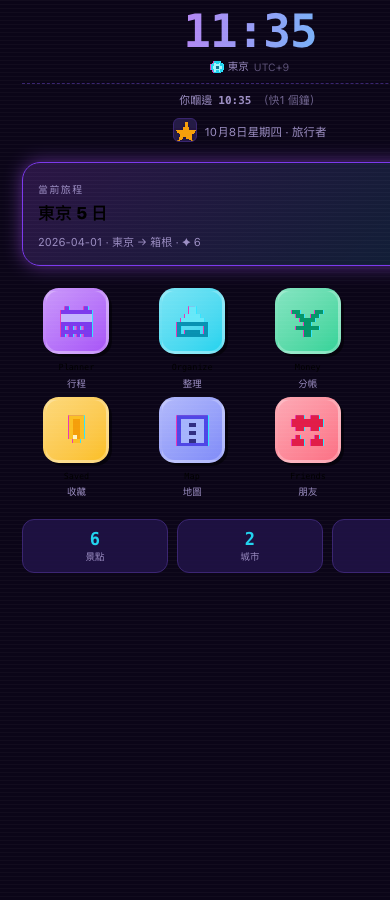
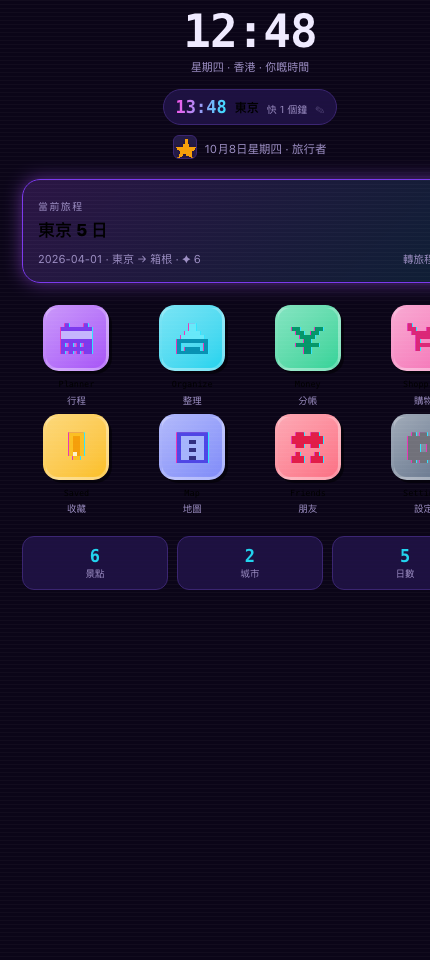
📝 README 更新（repo 變 public）+ 私隱審計
⚠⚠ Repo 由 private 變 **public** → 做咗完整私隱審計：

① 秘密檔案：✅ 全部擋住
   server/wander.db · server/.env · node_modules
   uploads/ · geocode_cache.json
   → git 追蹤嘅敏感檔案：**0**

② 🚨 捉到一個**真 email** 喺測試入面
   tests/web/admin_entry.test.mjs:
   → 改成

③ ✅ LAN IP（192.168.1.100）全部係之前設嘅**假 placeholder**

④ 全域嚴格檢查（真實 email / macOS 用戶名 / 真 IP）：
   **完全乾淨**

README 更新：
  · 新截圖（世界時鐘：大字手機時間 + 細字自選城市）
  · 加新功能：多貨幣、世界時鐘、托盤城市分組、Dashboard
  · 加 9 個「測試捉到嘅真 bug」案例
  · 更新測試數（1,893）同行數（37,000）
  · ⚠ 刪走臨時 cloudflared link（唔應該 commit）

.gitignore：加 docs/shots/*.html（截圖中間產物）

測試: 後端 1103 · 前端 780

diff --git a/README.md b/README.md
@@ -5,20 +5,19 @@
 **旅行計劃 app —— 由貼一條 link 到排好每日行程**
 
 貼一個 Google Maps / Instagram 連結，自動抽出地址同座標，
-按地理位置分區、排每日行程、分帳、購物清單、雙時區時鐘。
+按地理位置分區、排每日行程、分帳、購物清單、多時區時鐘。
 
 <br>
 
-[**🌍 即時試用**](https://era-apparently-submitted-language.trycloudflare.com) ·
 [功能](#-功能) · [技術](#-技術亮點) · [架構](#-架構) · [快速開始](#-快速開始)
 
 <br>
 
 <table>
 <tr>
-<td><img src="docs/shots/login.png" width="215" alt="登入"><br><sub>登入</sub></td>
-<td><img src="docs/shots/app-home.png" width="215" alt="主畫面"><br><sub>主畫面 + 雙時區時鐘</sub></td>
-<td><img src="docs/shots/app-saved.png" width="215" alt="收藏"><br><sub>收藏 + 地名 facet</sub></td>
+<td><img src="docs/shots/login.png" width="200" alt="登入"><br><sub>登入</sub></td>
+<td><img src="docs/shots/app-home.png" width="200" alt="主畫面"><br><sub>主畫面 + 世界時鐘</sub></td>
+<td><img src="docs/shots/app-saved.png" width="200" alt="收藏"><br><sub>收藏 + 地名 facet</sub></td>
 </tr>
 </table>
 
@@ -31,7 +30,7 @@
 ## ⚡ 一句話
 
 > 一個**冇用任何 AI** 嘅旅行計劃工具：所有解析、分區、時區判斷
-> 都係**可預測嘅規則引擎**，1,600+ 個測試守住。
+> 都係**可預測嘅規則引擎**，1,900+ 個測試守住。
 
 ---
 
@@ -39,21 +38,25 @@
 
 | App | 做咩 |
 |---|---|
-| 🗓 **Planner** | 月曆總覽 + 拖放編排（Pointer Events，手機都拖得）|
+| 🗓 **Planner** | 月曆總覽 + **拖放編排**（Pointer Events，手機都拖得）|
 | 📥 **Organize** | 貼 link → 自動解析地名、地址、座標、圖片 |
 | 💸 **Money** | 分帳（整數 cents 運算，冇浮點誤差）|
-| 🛒 **Shopping** | 購物清單 + 相框 |
+| 🛒 **Shopping** | 購物清單 + 相框 + **多貨幣** |
 | 🔖 **Saved** | 收藏瀏覽 + 搜尋 + **由地址自動抽出地名 facet** |
 | 🗺 **Map** | Leaflet + OSM，顯示每日路線 |
 | 👥 **Friends** | 朋友 + QR code（雙向確認，唔可以加自己）|
 | ⚙ **Settings** | 個人檔案、頭像、主題、教學重播 |
+| 🛠 **Dashboard** | 後台：幾多數據 + 邊個用戶用緊 |
 
 ### 特別做得好嘅位
 
-- **雙時區時鐘** —— 本地 + 目的地同時顯示，覆蓋 77 個單時區國家
-  + 9 個多時區國家（按東界經度分帶）
+- **世界時鐘** —— 上面大字係**你手機嘅時間**，下面細字係
+  **你自己揀嘅城市**（打中文／英文都得，本機 134k 城市庫即時查）
+- **多貨幣** —— 每項購物可以自己揀貨幣（JPY／KRW／EUR…），
+  總額自動按**即時匯率**換算，換唔到會明確講（唔會靜靜畀錯錢）
 - **地名 facet** —— 你 save 咗「博多」，因為地址有「福岡市」，
   就自動出一個 `[福岡市 2]` 嘅 chip 畀你 tick 篩選
+- **托盤按城市分組** —— 排 Day 3（福岡）嗰陣，福岡嘅景點排最前
 - **37 個 16×16 像素頭像** —— 程序化生成，唔係用圖檔
 - **離線優先 PWA** —— cache-first shell、network-first 導航、
   LRU 圖磚快取（上限 800 塊）
@@ -66,29 +69,40 @@
 
 ```
 engine/wander/
+├── links.py        Google Maps / IG / 小紅書 link 解析
 ├── caption.py      標題解析（中文地址、店名、地區詞）
 ├── localgeo.py     134,655 個地名 + 146 個手動整理區
 ├── tz.py           時區判斷（國家 → 經度分帶 → Etc/GMT±N）
+├── currency.py     匯率（兩個免費 API + 6 個鐘快取）
 ├── zones.py        Haversine 貪婪分群（確定性，唔隨機）
-├── qr.py           自己寫嘅 QR 編碼器（版本 1–20，EC level L）
+├── qr.py           自己寫嘅 QR 編碼器（版本 1–20）
 └── lookup.py       Photon → Nominatim → Overpass 三層 fallback
 ```
 
 **為咩唔用 LLM**：旅行計劃要**可預測**。同樣嘅輸入要出同樣嘅結果，
 而且要**解釋得到**為咩分喺嗰區。規則引擎做得到，LLM 唔得。
 
-### ② 自己寫 QR 編碼器
+### ② 貼一條 Google Maps link 就抽到嘢
+
+```
+/maps/place/店名,@lat,lng,17z/data=!3d..!4d..   ← 最完整
+/maps/place/35.6586,139.7454/@..                 ← 純座標
+/maps/search/?api=1&query=店名
+/maps/dir/?api=1&destination=成田機場
+/maps/@lat,lng,17z                               ← 只有視窗中心
+maps.app.goo.gl/xxxx                             ← 短連結（跟 redirect）
+```
+
+⚠ 店名連住地址會**拆開**（`一蘭拉麵 本店, 1 Chome-1-1 …`）；
+⚠ 純座標唔會當做店名；⚠ `place_id:` 會丟棄；
+⚠ 有座標但冇地名 → **本機 134k 城市庫反查**國家／城市。
+
+### ③ 自己寫 QR 編碼器
 
 冇用 `qrcode` 套件 —— 純 Python 實作：
 Reed-Solomon 糾錯、遮罩模式選擇、版本自動升級。
 
-```python
-# engine/wander/qr.py
-def encode(text: str, ec_level: str = "L") -> list[list[int]]:
-    """版本 1–20，自動揀最細嘅版本。"""
-```
-
-### ③ 程序化像素藝術
+### ④ 程序化像素藝術
 
 ```python
 # engine/make_avatars.py
@@ -100,14 +114,6 @@ AVATAR = P(['#outline', '#main', '#light'], [
 ])
 ```
 
-### ④ 時間軸同步（整合同測試）
-
-Planner 曾有兩個獨立系統（月曆模式 + 時間格模式）各自寫入
-`day_index` / `start_time` → **拖咗時間但顯示唔變**。
-
-修法：**刪走一個模式**，全部用同一個 `place()` 寫入
-`{day_index, parsed:{start_time, duration}}`。
-
 ### ⑤ 免費服務，零成本
 
 | 用途 | 服務 |
@@ -115,6 +121,7 @@ Planner 曾有兩個獨立系統（月曆模式 + 時間格模式）各自寫入
 | 地理編碼 | Photon (Komoot) · Nominatim (OSM) |
 | 圖磚 | OpenStreetMap |
 | 地名資料 | GeoNames（本機 DB，134,655 條）|
+| 匯率 | jsdelivr (fawazahmed0) · open.er-api.com |
 | 連結解析 | DuckDuckGo HTML · Open Graph |
 
 ---
@@ -122,11 +129,11 @@ Planner 曾有兩個獨立系統（月曆模式 + 時間格模式）各自寫入
 ## 🧪 測試
 
 ```
-後端   pytest        882 通過
-前端   node:test     751 通過（12 個套件）
-引擎   selftest       10 通過
-─────────────────────────────────
-                     1,643
+後端   pytest        1,103 通過
+前端   node:test       780 通過（14 個套件）
+引擎   selftest         10 通過
+──────────────────────────────────
+                      ~1,893
 ```
 
 **測試捉到嘅真 bug**（唔止係「有測試」）：
@@ -134,14 +141,20 @@ Planner 曾有兩個獨立系統（月曆模式 + 時間格模式）各自寫入
 | Bug | 測試點捉到 |
 |---|---|
 | `PixelIcon is not defined` → Planner 白畫面 | 靜態「用咗但冇 import」檢查 |
-| `useMemo` 冇 import | 同上（`vite build` **捉唔到**）|
+| `WorldClocks is not defined` → 主畫面爆 | SSR 真 render（`vite build` **捉唔到**）|
+| `useMemo` 冇 import | 同上 |
 | 密碼欄每次打一個字就失焦 | 「組件唔可以喺 render 內定義」檢查 |
-| `eye` 圖示用咗唔存在嘅調色板索引 | 像素圖示索引檢查 |
 | `--fg` CSS 變數唔存在（應為 `--text`）| CSS 變數完整性檢查 |
 | `$VAR` 後面跟全形括號 → bash `unbound variable` | shell script 掃描 |
+| `history.back()` 做 tab 嘅「返去」→ 跳出 app | 導航審計 |
+| 後台入口 `isAdmin` 永遠 false（只喺 mount 檢查）| 真 render 比對 admin／非 admin |
+| `nowIn()` 回 `hh`/`mm` 但用咗 `hours`/`minutes` | 時間顯示測試 |
 
 > ⚠ 而且**測試會 match 到自己嘅註解** —— 所以所有原始碼檢查
 > 都會先剝走註解。呢個陷阱中過好多次。
+>
+> ⚠ 但要小心：**唔可以一刀切剝三引號字串** ——
+> 呢個 codebase 嘅 SQL 就係寫喺三引號入面。
 
 ---
 
@@ -150,7 +163,7 @@ Planner 曾有兩個獨立系統（月曆模式 + 時間格模式）各自寫入
 ```
                         ┌──────────────┐
    瀏覽器 (PWA)  ──────▶ │  FastAPI     │
-   React 19 + Vite      │  port 8787   │
+   React 18 + Vite      │  port 8787   │
                         └──────┬───────┘
                                │
               ┌────────────────┼────────────────┐
@@ -165,12 +178,12 @@ Planner 曾有兩個獨立系統（月曆模式 + 時間格模式）各自寫入
 冇 CORS、冇 nginx、冇 docker-compose。
 
 ```
-engine/     10,140 行   解析引擎
-web/src/    10,273 行   React 前端
-tests/       9,729 行   測試
-server/app/  3,550 行   API
+engine/     11,000 行   解析引擎
+web/src/    11,000 行   React 前端
+tests/      11,000 行   測試
+server/app/  4,000 行   API
 ────────────────────────────
-            34,519 行
+            37,000 行
 ```
 
 ### 安全
@@ -178,8 +191,8 @@ server/app/  3,550 行   API
 - 密碼：PBKDF2-HMAC-SHA256，**600,000 次迭代**、per-user salt、
   `hmac.compare_digest` 比較
 - Session token：`secrets.token_urlsafe`
-- 刪帳號：**轉移**擁有權（唔會連累朋友嘅旅程）——
-  呢個係實測踩過嘅坑，見 [DEVLOG](DEVLOG.md)
+- 刪帳號：**轉移**擁有權（唔會連累朋友嘅旅程）
+- GZip 壓縮 + 上傳大小限制 + SPA fallback 唔會蓋過 API
 
 ---
 
@@ -214,6 +227,14 @@ cd server && python -m app
 ⚠ HTTPS 之下 service worker、相機、剪貼板全部用得
 （`http://192.168.x.x` 做唔到）。
 
+### 部署
+
+| 方法 | 指令 |
+|---|---|
+| Fly.io（永久網址）| `./deploy.sh` |
+| 對外開放（臨時）| `./host.sh` |
+| 推上 GitHub | `./push-to-github.sh` |
+
 ---
 
 ## 📁 文件
@@ -221,6 +242,7 @@ cd server && python -m app
 | 檔案 | 內容 |
 |---|---|
 | [DEPLOY.md](DEPLOY.md) | 部署（Fly.io / Codespaces / Docker）|
+| [HOSTING.md](HOSTING.md) | 所有 host 選擇 + 自訂 link 名 |
 | [DEVLOG.md](DEVLOG.md) | 開發日誌 —— 每個 bug 嘅根因同修法 |
 | [docs/smtp/](docs/smtp/) | 寄信設定（Gmail App Password 陷阱）|
 | [docs/mascot/](docs/mascot/) | 角色圖規格 |
@@ -229,7 +251,7 @@ cd server && python -m app
 
 <div align="center">
 
-**技術**：Python · FastAPI · SQLite · React 19 · Vite · Leaflet ·
+**技術**：Python · FastAPI · SQLite · React 18 · Vite · Leaflet ·
 純規則引擎（無 AI）
 
 </div>
